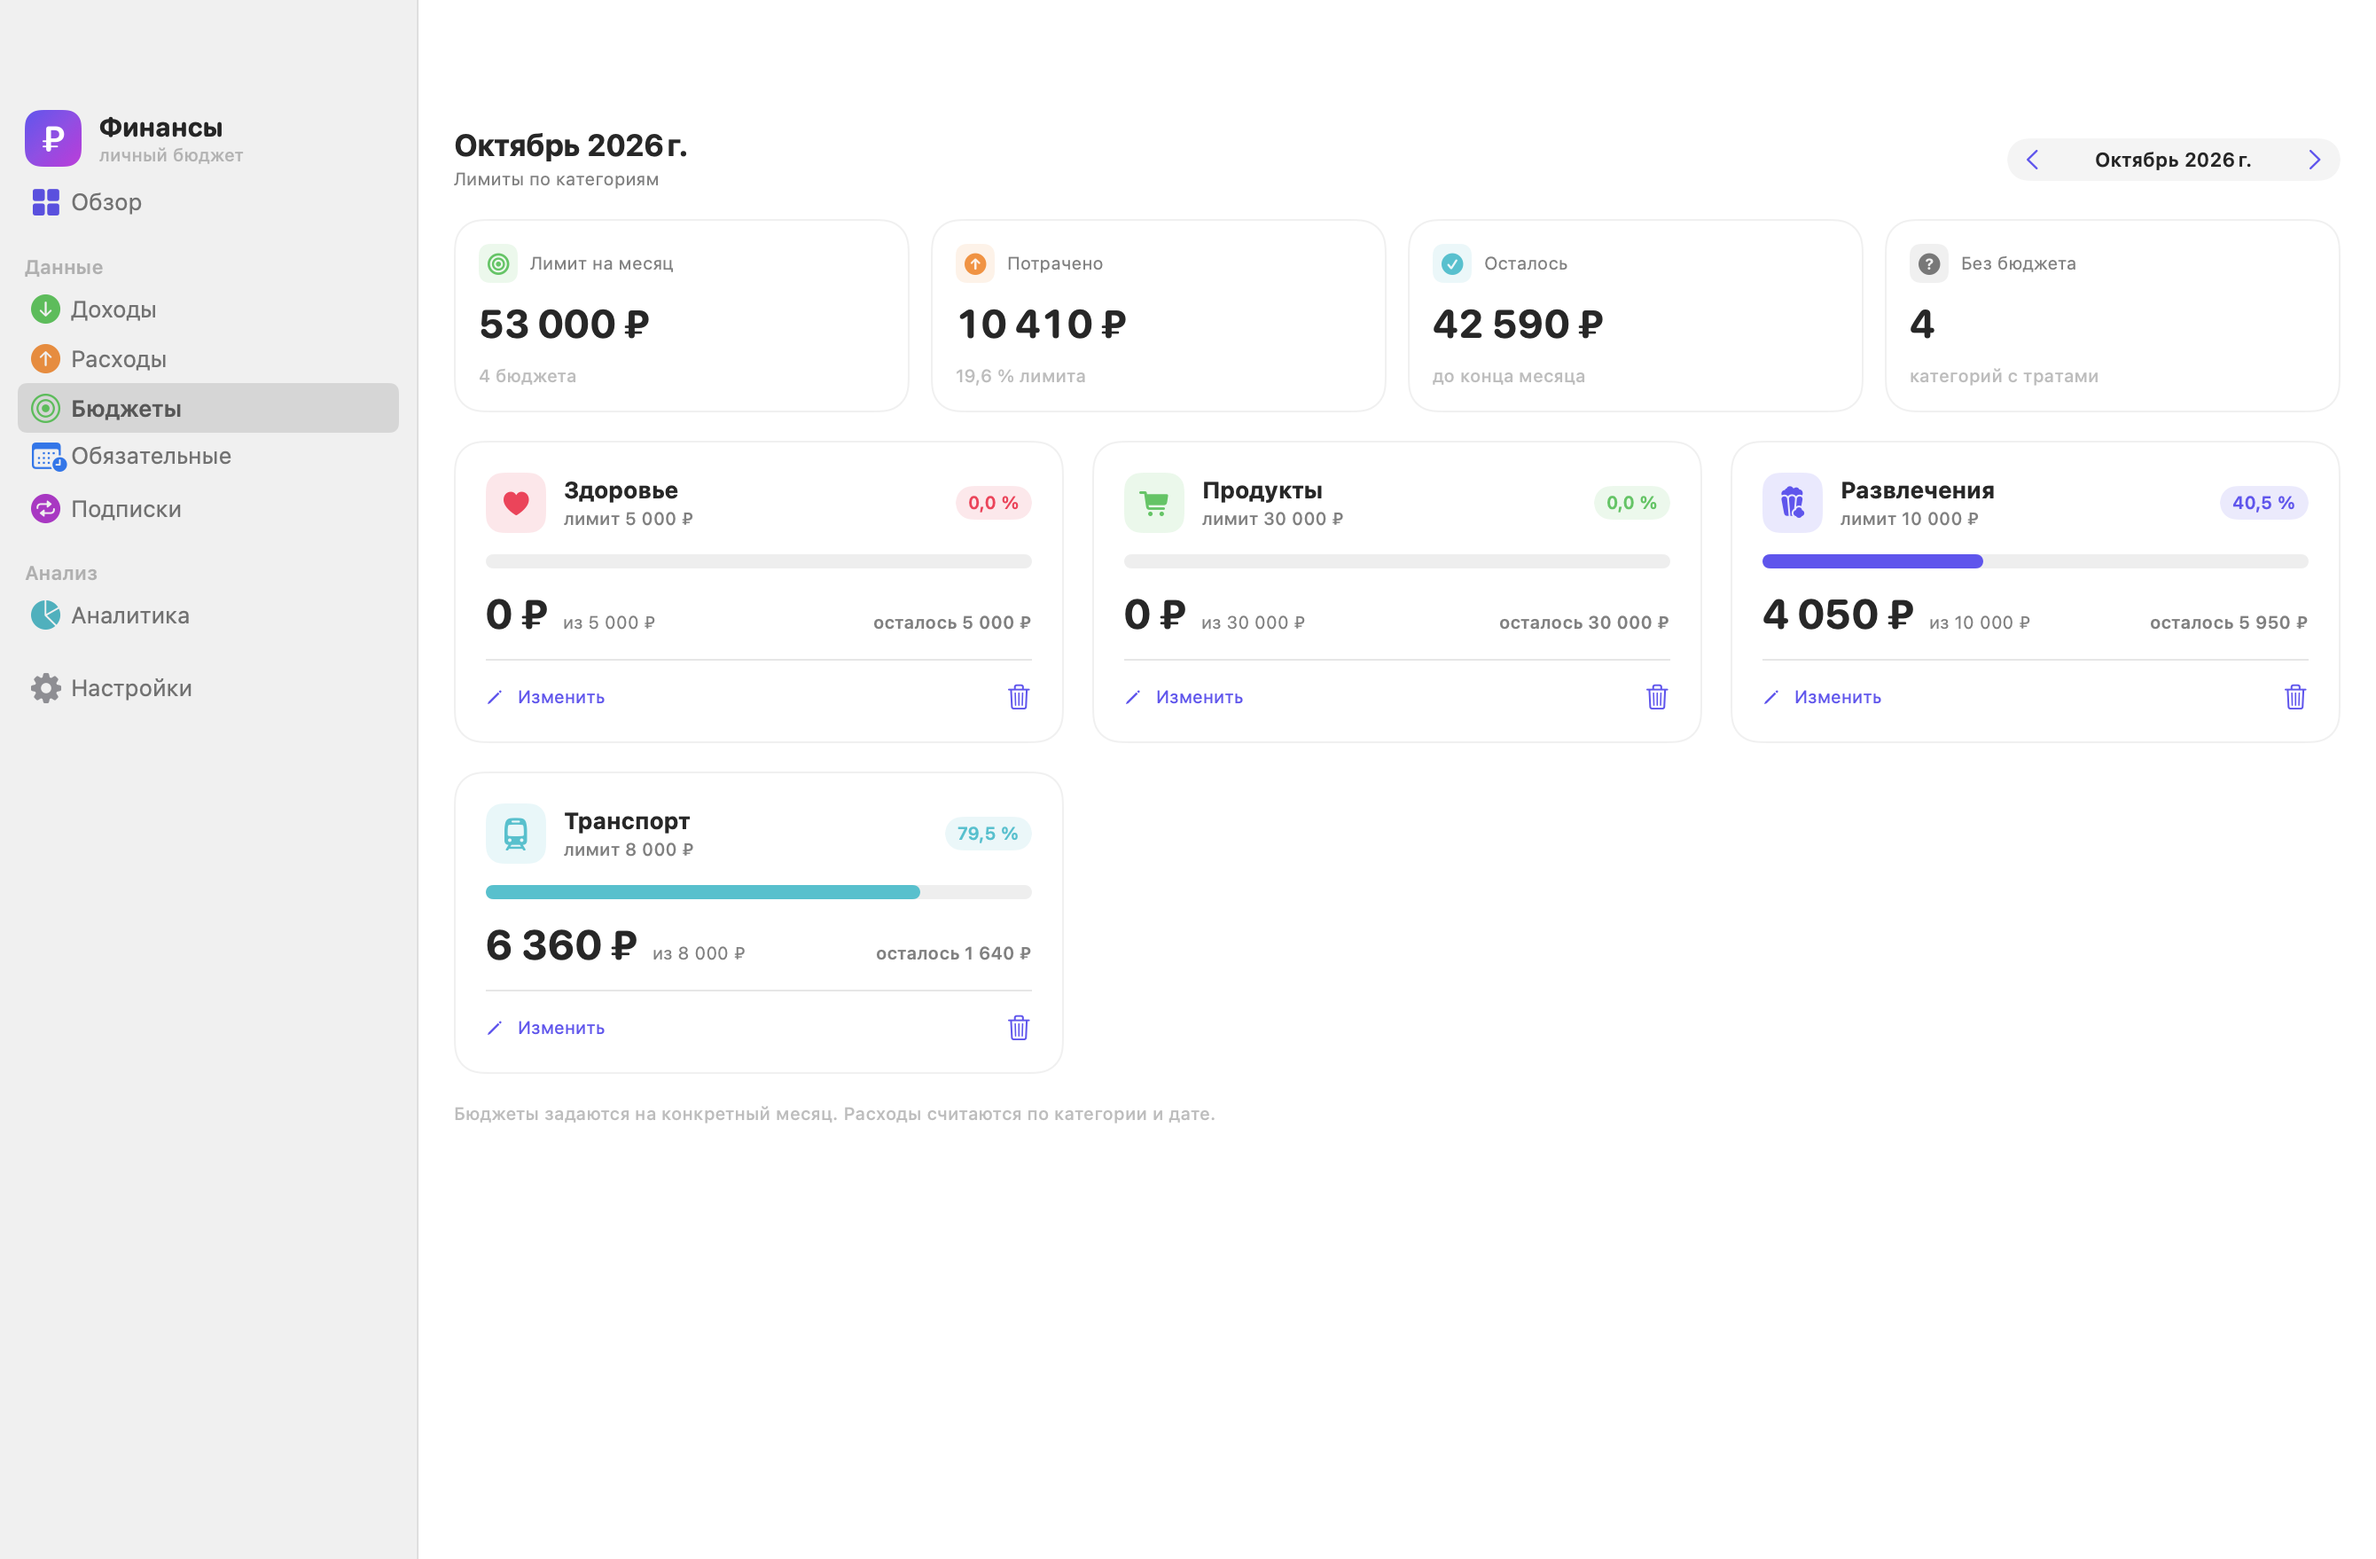
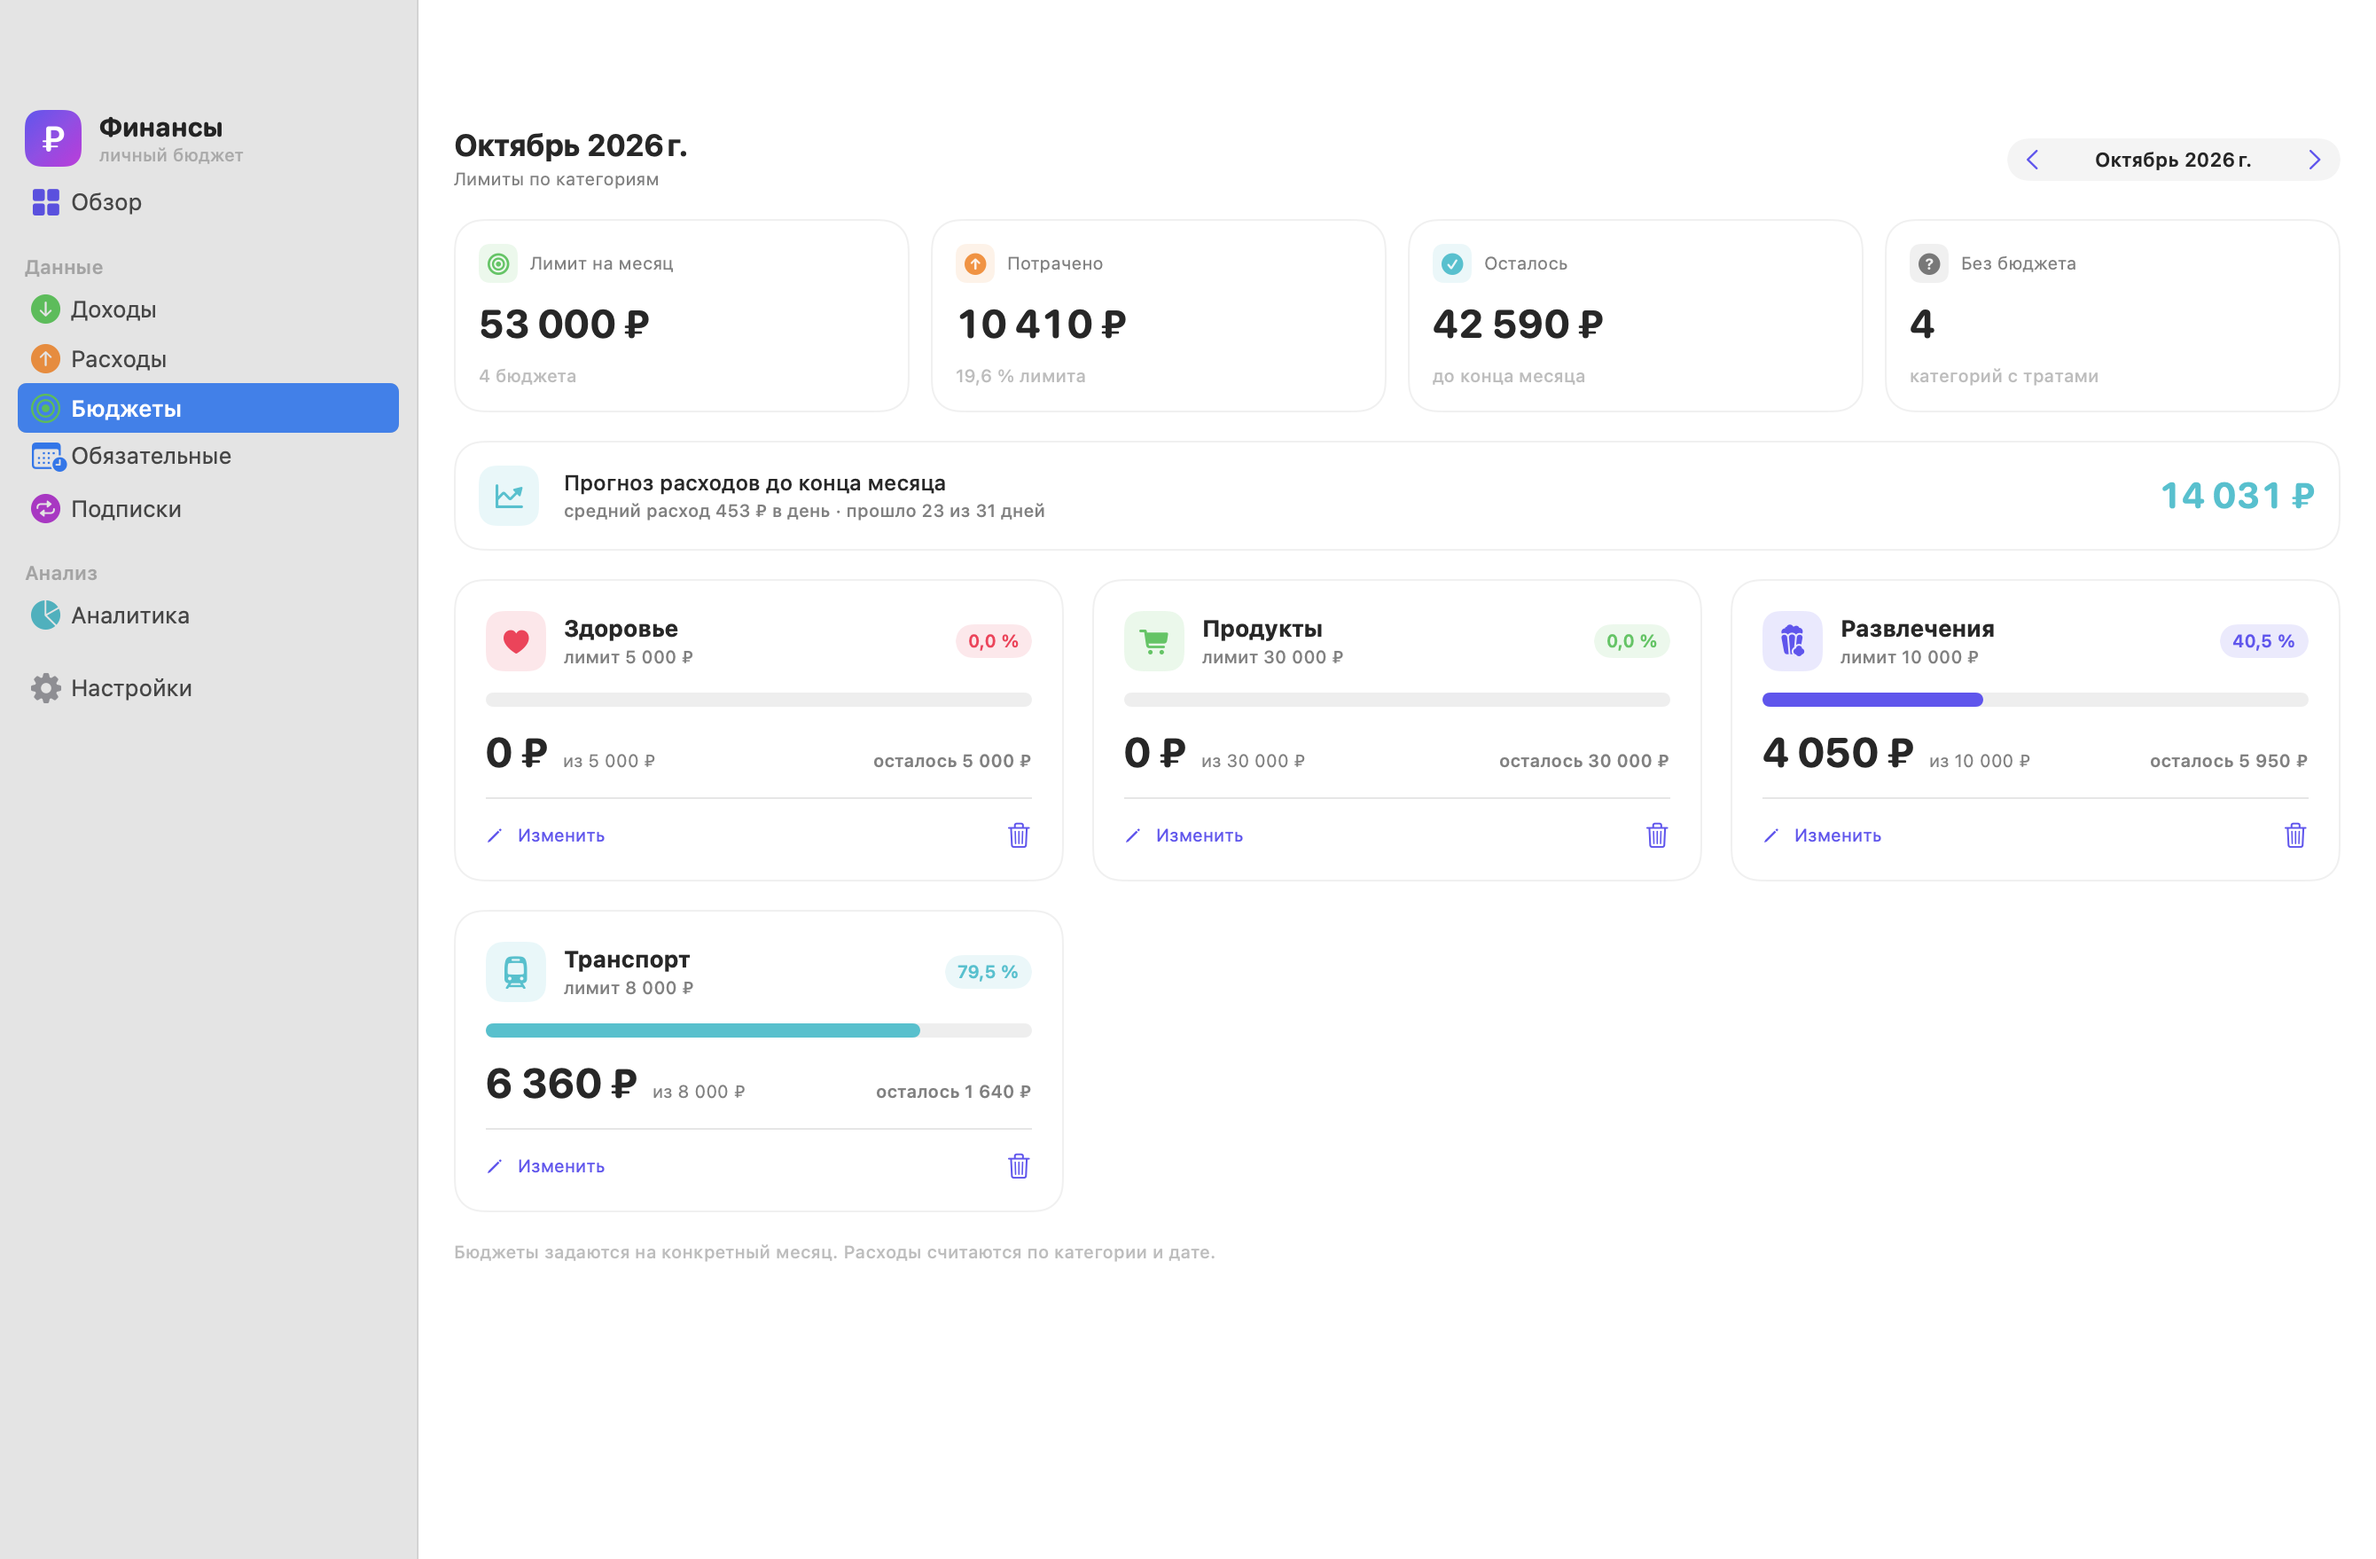
feat: add budget expense forecast
- ForecastService with daily average and month projection
- forecast card on budgets screen for budgeted categories
- tests for current, past, future and filtered forecasts
- 70 unit tests

Refs #20

diff --git a/Sources/FinancesUI/Views/Budgets/BudgetsView.swift b/Sources/FinancesUI/Views/Budgets/BudgetsView.swift
@@ -25,6 +25,14 @@ struct BudgetsView: View {
         BudgetService.summary(progress)
     }
 
+    private var forecast: MonthForecast {
+        ForecastService.forecast(
+            expenses: expenses,
+            month: month,
+            categories: Set(progress.map(\.category))
+        )
+    }
+
     var body: some View {
         ScrollView {
             VStack(alignment: .leading, spacing: 16) {
@@ -45,6 +53,8 @@ struct BudgetsView: View {
                         .frame(height: 300)
                     }
                 } else {
+                    forecastCard
+
                     LazyVGrid(
                         columns: [GridItem(.adaptive(minimum: 340), spacing: 16, alignment: .top)],
                         alignment: .leading,
@@ -168,6 +178,37 @@ struct BudgetsView: View {
                 tint: .secondary
             )
         }
+    }
+
+    private var forecastCard: some View {
+        CardView(padding: 14) {
+            HStack(spacing: 14) {
+                IconTile(symbol: "chart.line.uptrend.xyaxis", tint: .teal, size: 34)
+                VStack(alignment: .leading, spacing: 2) {
+                    Text("Прогноз расходов до конца месяца")
+                        .font(.callout.weight(.medium))
+                    Text(forecastSubtitle)
+                        .font(.caption2)
+                        .foregroundStyle(.secondary)
+                }
+                Spacer()
+                Text(forecast.daysElapsed == 0 ? "—" : Fmt.moneyRounded(forecast.projectedExpense))
+                    .font(.system(size: 20, weight: .bold, design: .rounded))
+                    .monospacedDigit()
+                    .foregroundStyle(.teal)
+            }
+        }
+    }
+
+    private var forecastSubtitle: String {
+        if forecast.daysElapsed == 0 {
+            return "месяц ещё не начался"
+        }
+        if forecast.isComplete {
+            return "месяц завершён · \(forecast.daysInMonth) дней"
+        }
+        return
+            "средний расход \(Fmt.moneyRounded(forecast.averageDailyExpense)) в день · прошло \(forecast.daysElapsed) из \(forecast.daysInMonth) дней"
     }
 
     private var unbudgetedCategoriesCount: Int {

diff --git a/Tests/FinancesCoreTests/ForecastTests.swift b/Tests/FinancesCoreTests/ForecastTests.swift
@@ -1,0 +1,57 @@
+import XCTest
+@testable import FinancesCore
+
+final class ForecastTests: XCTestCase {
+    private func expense(_ amount: Double, _ day: Int) -> ExpenseEntry {
+        ExpenseEntry(amount: amount, date: makeDate(2026, 10, day), category: .food)
+    }
+
+    func testForecastForCurrentMonth() {
+        let forecast = ForecastService.forecast(
+            expenses: [expense(1_000, 1), expense(2_000, 5)],
+            month: makeDate(2026, 10, 1),
+            now: makeDate(2026, 10, 11)
+        )
+
+        XCTAssertEqual(forecast.daysElapsed, 11)
+        XCTAssertEqual(forecast.daysInMonth, 31)
+        XCTAssertEqual(forecast.averageDailyExpense, 3_000 / 11, accuracy: 0.01)
+        XCTAssertEqual(forecast.projectedExpense, 3_000 / 11 * 31, accuracy: 0.1)
+        XCTAssertFalse(forecast.isComplete)
+    }
+
+    func testForecastForPastMonth() {
+        let forecast = ForecastService.forecast(
+            expenses: [expense(1_000, 1), expense(2_000, 5)],
+            month: makeDate(2026, 10, 1),
+            now: makeDate(2026, 11, 10)
+        )
+        XCTAssertEqual(forecast.daysElapsed, 31)
+        XCTAssertEqual(forecast.projectedExpense, 3_000)
+        XCTAssertTrue(forecast.isComplete)
+    }
+
+    func testForecastForSelectedCategories() {
+        let forecast = ForecastService.forecast(
+            expenses: [
+                expense(1_000, 1),
+                ExpenseEntry(amount: 9_000, date: makeDate(2026, 10, 5), category: .rent),
+            ],
+            month: makeDate(2026, 10, 1),
+            categories: [.food],
+            now: makeDate(2026, 10, 11)
+        )
+        XCTAssertEqual(forecast.averageDailyExpense, 1_000 / 11, accuracy: 0.01)
+        XCTAssertEqual(forecast.projectedExpense, 1_000 / 11 * 31, accuracy: 0.1)
+    }
+
+    func testForecastForFutureMonth() {
+        let forecast = ForecastService.forecast(
+            expenses: [],
+            month: makeDate(2026, 12, 1),
+            now: makeDate(2026, 10, 11)
+        )
+        XCTAssertEqual(forecast.daysElapsed, 0)
+        XCTAssertEqual(forecast.projectedExpense, 0)
+    }
+}

diff --git a/Sources/FinancesCore/Core/ForecastService.swift b/Sources/FinancesCore/Core/ForecastService.swift
@@ -1,0 +1,51 @@
+import Foundation
+
+// MARK: - Прогноз расходов на месяц
+
+package struct MonthForecast {
+    package let averageDailyExpense: Double
+    package let projectedExpense: Double
+    package let daysElapsed: Int
+    package let daysInMonth: Int
+
+    package var isComplete: Bool { daysElapsed >= daysInMonth }
+}
+
+package enum ForecastService {
+    package static func forecast(
+        expenses: [ExpenseEntry],
+        month: Date,
+        categories: Set<ExpenseCategory>? = nil,
+        now: Date = Date()
+    ) -> MonthForecast {
+        let calendar = Calendar.current
+        let monthStart = month.startOfMonth
+        let today = now.startOfDay
+        let daysInMonth = calendar.range(of: .day, in: .month, for: monthStart)?.count ?? 30
+
+        let daysElapsed: Int
+        if monthStart > today {
+            daysElapsed = 0
+        } else if monthStart.isSameMonth(as: today) {
+            daysElapsed = min(today.day, daysInMonth)
+        } else {
+            daysElapsed = daysInMonth
+        }
+
+        let spent =
+            expenses
+            .filter { expense in
+                expense.date.isSameMonth(as: monthStart)
+                    && (categories?.contains(expense.category) ?? true)
+            }
+            .reduce(0) { $0 + $1.amount }
+        let average = daysElapsed > 0 ? spent / Double(daysElapsed) : 0
+
+        return MonthForecast(
+            averageDailyExpense: average,
+            projectedExpense: average * Double(daysInMonth),
+            daysElapsed: daysElapsed,
+            daysInMonth: daysInMonth
+        )
+    }
+}

diff --git a/docs/roadmap.html b/docs/roadmap.html
@@ -239,7 +239,7 @@
 
           <article class="debt">
             <div class="debt-head"><h3>Нет UI-тестов</h3><span class="pill">P1 · M</span></div>
-            <p>Есть 66 тестов и snapshot-раннер, но критические сценарии не проверяются XCUITest.</p>
+            <p>Есть 70 тестов и snapshot-раннер, но критические сценарии не проверяются XCUITest.</p>
           </article>
 
           <article class="debt">

diff --git a/ROADMAP.md b/ROADMAP.md
@@ -27,7 +27,7 @@
 - Подписки с месячной/годовой нагрузкой и ближайшими списаниями.
 - Аналитика: динамика, два бублика, средние по типам, итоги по годам и кварталам, фильтры.
 - Демо-данные за 24 месяца, CSV-экспорт и импорт, JSON-бэкап, автобэкапы.
-- 66 тестов, CI, Pages, wiki и release-пайплайн.
+- 70 тестов, CI, Pages, wiki и release-пайплайн.
 - `FinancesSchemaV2`, миграция V1 → V2 и экран восстановления store.
 - Локальное хранение, светлая/тёмная темы, адаптивность.
 
@@ -131,7 +131,7 @@
 
 **Цель:** приложение отвечает не только «сколько было», но и «сколько можно потратить».
 
-**Статус:** бюджеты по категориям, прогресс и карточка на обзоре готовы (66 тестов). Остались прогноз, цели и пользовательские категории.
+**Статус:** бюджеты по категориям, прогресс, карточка на обзоре и прогноз расходов готовы (70 тестов). Остались прогноз остатка, цели и пользовательские категории.
 
 **Фичи**
 

diff --git a/README.md b/README.md
@@ -49,6 +49,7 @@
 
 - Лимиты по категориям на выбранный месяц: лимит, потрачено, остаток и прогресс.
 - Перерасход подсвечивается, на обзоре есть карточка с топ-3 бюджетами.
+- Прогноз расходов до конца месяца по категориям с бюджетом.
 - Бюджеты входят в JSON-бэкап и заполняются в демо-наборе.
 - Дубликаты на одну категорию и месяц не создаются: лимит обновляется.
 
@@ -76,7 +77,7 @@
 - Импорт CSV с автоматическим распознаванием колонок и предпросмотром.
 - Полная очистка данных с подтверждением.
 - Светлая и тёмная темы, русская локализация, суммы в рублях.
-- 66 тестов и CI на GitHub Actions.
+- 70 тестов и CI на GitHub Actions.
 
 ## Скриншоты
 
@@ -195,7 +196,7 @@ Sources/
     Views/            экраны, бюджеты, общие компоненты
   FinancesApp/        тонкий composition root
 Tests/
-  FinancesCoreTests/  66 тестов
+  FinancesCoreTests/  70 тестов
 Scripts/
   package_app.sh      сборка .app
   lint.sh             swift-format

diff --git a/CHANGELOG.md b/CHANGELOG.md
@@ -10,7 +10,8 @@
 - Карточка бюджетов на обзоре месяца.
 - Бюджеты в JSON-бэкапах и демо-данных.
 - `FinancesSchemaV3` и lightweight-миграция V2 → V3.
-- 66 тестов, включая бюджеты и миграцию.
+- 70 тестов, включая бюджеты, прогноз и миграцию.
+- Прогноз расходов до конца месяца по категориям с бюджетом.
 
 ## [1.1.0] — 2026-10-23
 
